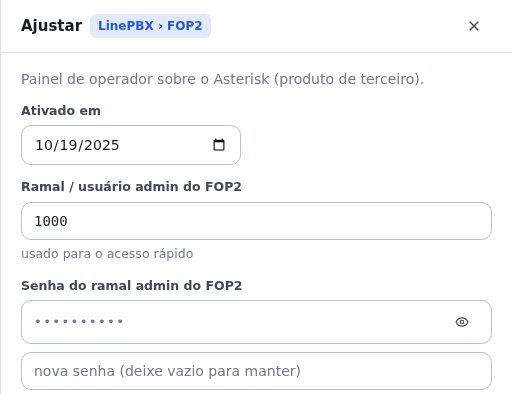
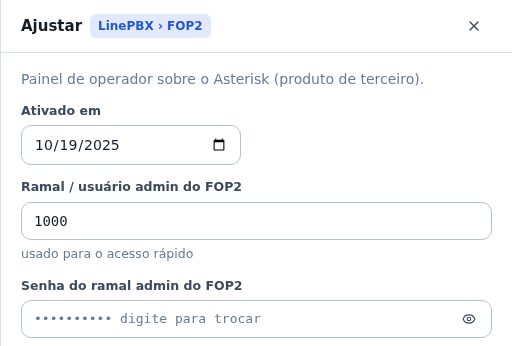
Patch 1.4: senha guardada numa caixa só nos formulários
Pedido do Luan num comentário da prévia (FOP2): a segunda caixa ("nova senha,
deixe vazio para manter") não precisa; para trocar, ele digita no próprio
campo. O CampoSegredo, com onChangeNovo, vira uma caixa só: com senha
guardada mostra os pontinhos e "digite para trocar"; revelada, a senha
aparece na própria caixa por 30 s. Vale para todos os formulários (FOP2,
Omniboard, SZChat, rede padrão, logins por modelo, tronco).

Claude-Session: https://claude.ai/code/session_013p9iLAtAs34Vy4HgJGYvDb

diff --git a/apps/web/src/api/novidades-demo.ts b/apps/web/src/api/novidades-demo.ts
@@ -72,8 +72,8 @@ export const NOTA_DEMO: { version: string; title: string; summary: string; items
     {
       "kind": "melhorou",
       "title": "FOP2: a senha do ramal admin",
-      "text": "No FOP2 (na ficha do cliente, Produtos › LinePBX › FOP2), a senha agora é a do ramal admin, e ela aparece na aba Acessos logo abaixo do ramal. A senha do usuário padrão saiu da tela; as que já estavam cadastradas continuam guardadas no cofre.",
[1 lines of base64/hex data omitted]
+      "text": "No FOP2 (na ficha do cliente, Produtos › LinePBX › FOP2), a senha agora é a do ramal admin, e ela aparece na aba Acessos logo abaixo do ramal. A senha do usuário padrão saiu da tela; as que já estavam cadastradas continuam guardadas no cofre. E em todo formulário a senha guardada fica numa caixa só: para trocar, é digitar nela mesma.",
[1 lines of base64/hex data omitted]
     },
     {
       "kind": "corrigido",

diff --git a/apps/web/src/components/ui/index.tsx b/apps/web/src/components/ui/index.tsx
@@ -145,12 +145,20 @@ export function Confirmar({ open, onClose, onConfirm, titulo, texto, botao = 'Co
 }
 
 // ---------- Campo de senha guardada (revelar / copiar) ----------
-export function CampoSegredo({ secretId, hasSecret, onReveal, podeRevelar, onChangeNovo, placeholder = 'nova senha (deixe vazio para manter)' }: { secretId: string | null; hasSecret: boolean; onReveal: (id: string, password: string) => Promise<{ value: string; visibleForSeconds: number }>; podeRevelar: boolean; onChangeNovo?: (v: string) => void; placeholder?: string }) {
+/**
+ * Uma senha do cofre. Sem `onChangeNovo`, só mostra (mascarada, com Revelar e Copiar). Com ele, é o
+ * campo do formulário — **uma caixa só** (pedido do Luan no 1.4): com senha guardada, a caixa mostra
+ * os pontinhos e trocar é digitar ali mesmo; deixar como está mantém a atual. Revelada, a senha
+ * aparece na própria caixa por 30 s, e dá para corrigi-la ali.
+ */
+export function CampoSegredo({ secretId, hasSecret, onReveal, podeRevelar, onChangeNovo, placeholder = 'digite para trocar' }: { secretId: string | null; hasSecret: boolean; onReveal: (id: string, password: string) => Promise<{ value: string; visibleForSeconds: number }>; podeRevelar: boolean; onChangeNovo?: (v: string) => void; placeholder?: string }) {
   const [shown, setShown] = useState<string | null>(null);
   const [asking, setAsking] = useState(false);
   const [pw, setPw] = useState('');
   const [busy, setBusy] = useState(false);
   const [err, setErr] = useState('');
+  /** o que foi digitado no formulário; null = não mexeu (mantém a senha guardada) */
+  const [novo, setNovo] = useState<string | null>(null);
   const timer = useRef<number | null>(null);
   const toast = useToast();
   useEffect(() => () => { if (timer.current) window.clearTimeout(timer.current); }, []);
@@ -162,26 +170,52 @@ export function CampoSegredo({ secretId, hasSecret, onReveal, podeRevelar, onCha
       timer.current = window.setTimeout(() => setShown(null), r.visibleForSeconds * 1000);
     } catch (e) { setErr(mensagemErro(e)); } finally { setBusy(false); }
   };
+  const botoes = hasSecret && (
+    <span className="flex items-center gap-1">
+      {shown && <button type="button" className="btn-ghost btn-sm" title="Copiar" onClick={() => { navigator.clipboard.writeText(shown); toast.push('ok', 'Copiado'); }}><Copy size={14} /></button>}
+      {podeRevelar && (shown ? <button type="button" className="btn-ghost btn-sm" onClick={() => setShown(null)} title="Ocultar"><EyeOff size={14} /></button> : <button type="button" className="btn-ghost btn-sm" onClick={() => setAsking(true)} title="Revelar (fica registrado)"><Eye size={14} /></button>)}
+    </span>
+  );
+  const janelaRevelar = (
+    <Modal open={asking} onClose={() => setAsking(false)} titulo="Revelar senha" rodape={<><button className="btn-secondary" onClick={() => setAsking(false)}>Cancelar</button><button className="btn-primary" disabled={!pw || busy} onClick={reveal}>{busy ? <Spinner className="text-white" /> : 'Revelar por 30 s'}</button></>}>
+      <p className="text-sm text-ink-2 mb-3">Confirme a <b>sua</b> senha. A revelação fica registrada na auditoria com seu nome, data e hora.</p>
+      <input type="password" className="input" placeholder="sua senha" value={pw} onChange={(e) => setPw(e.target.value)} onKeyDown={(e) => e.key === 'Enter' && pw && reveal()} autoFocus />
+      {err && <div className="text-bad text-sm mt-2">{err}</div>}
+    </Modal>
+  );
+
+  // ---------- no formulário: uma caixa só ----------
+  if (onChangeNovo) {
+    const mostrando = novo === null && shown !== null;
+    return (
+      <div>
+        <div className="relative">
+          <input
+            type={mostrando ? 'text' : 'password'} autoComplete="new-password" className={`input font-mono text-[13px] ${hasSecret ? 'pr-20 placeholder:tracking-normal' : ''}`}
+            placeholder={hasSecret ? `•••••••••• ${placeholder}` : 'digite a senha'}
+            value={novo ?? (shown ?? '')}
+            onChange={(e) => { setNovo(e.target.value); onChangeNovo(e.target.value); }}
+            aria-label={hasSecret ? 'Senha (guardada; digite para trocar)' : 'Senha'}
+          />
+          {botoes && <span className="absolute right-1.5 top-1/2 -translate-y-1/2">{botoes}</span>}
+        </div>
+        {janelaRevelar}
+      </div>
+    );
+  }
+
+  // ---------- só mostrando (aba Acessos, fichas) ----------
   return (
     <div>
       <div className="flex items-center gap-2">
         {hasSecret ? (
           <div className="input flex items-center justify-between gap-2 font-mono text-[13px]">
             <span className={shown ? '' : 'text-muted tracking-widest'}>{shown ?? '••••••••••'}</span>
-            <span className="flex items-center gap-1">
-              {shown && <button type="button" className="btn-ghost btn-sm" title="Copiar" onClick={() => { navigator.clipboard.writeText(shown); toast.push('ok', 'Copiado'); }}><Copy size={14} /></button>}
-              {podeRevelar && (shown ? <button type="button" className="btn-ghost btn-sm" onClick={() => setShown(null)} title="Ocultar"><EyeOff size={14} /></button> : <button type="button" className="btn-ghost btn-sm" onClick={() => setAsking(true)} title="Revelar (fica registrado)"><Eye size={14} /></button>)}
-            </span>
+            {botoes}
           </div>
-        ) : !onChangeNovo && <span className="text-muted text-sm">não cadastrada</span>}
+        ) : <span className="text-muted text-sm">não cadastrada</span>}
       </div>
-      {/* no formulário: sem senha guardada, é só o campo para digitar — nada de caixa "vazia" em cima */}
-      {onChangeNovo && <input type="password" autoComplete="new-password" className={`input ${hasSecret ? 'mt-2' : ''}`} placeholder={hasSecret ? placeholder : 'digite a senha'} onChange={(e) => onChangeNovo(e.target.value)} />}
-      <Modal open={asking} onClose={() => setAsking(false)} titulo="Revelar senha" rodape={<><button className="btn-secondary" onClick={() => setAsking(false)}>Cancelar</button><button className="btn-primary" disabled={!pw || busy} onClick={reveal}>{busy ? <Spinner className="text-white" /> : 'Revelar por 30 s'}</button></>}>
-        <p className="text-sm text-ink-2 mb-3">Confirme a <b>sua</b> senha. A revelação fica registrada na auditoria com seu nome, data e hora.</p>
-        <input type="password" className="input" placeholder="sua senha" value={pw} onChange={(e) => setPw(e.target.value)} onKeyDown={(e) => e.key === 'Enter' && pw && reveal()} autoFocus />
-        {err && <div className="text-bad text-sm mt-2">{err}</div>}
-      </Modal>
+      {janelaRevelar}
     </div>
   );
 }

diff --git a/docs/novidades/1.4.md b/docs/novidades/1.4.md
@@ -69,7 +69,8 @@ chamar Laranja, que é a cor que ele sempre teve — nada do que já estava esco
 ## melhorou · FOP2: a senha do ramal admin
 No FOP2 (na ficha do cliente, Produtos › LinePBX › FOP2), a senha agora é a do ramal admin, e ela
 aparece na aba Acessos logo abaixo do ramal. A senha do usuário padrão saiu da tela; as que já
-estavam cadastradas continuam guardadas no cofre.
+estavam cadastradas continuam guardadas no cofre. E em todo formulário a senha guardada fica numa
+caixa só: para trocar, é digitar nela mesma.
 ![](1.4/fop2-senha-admin.jpg)
 
 ## corrigido · Omniboard e SZChat agora gravam login e senha
